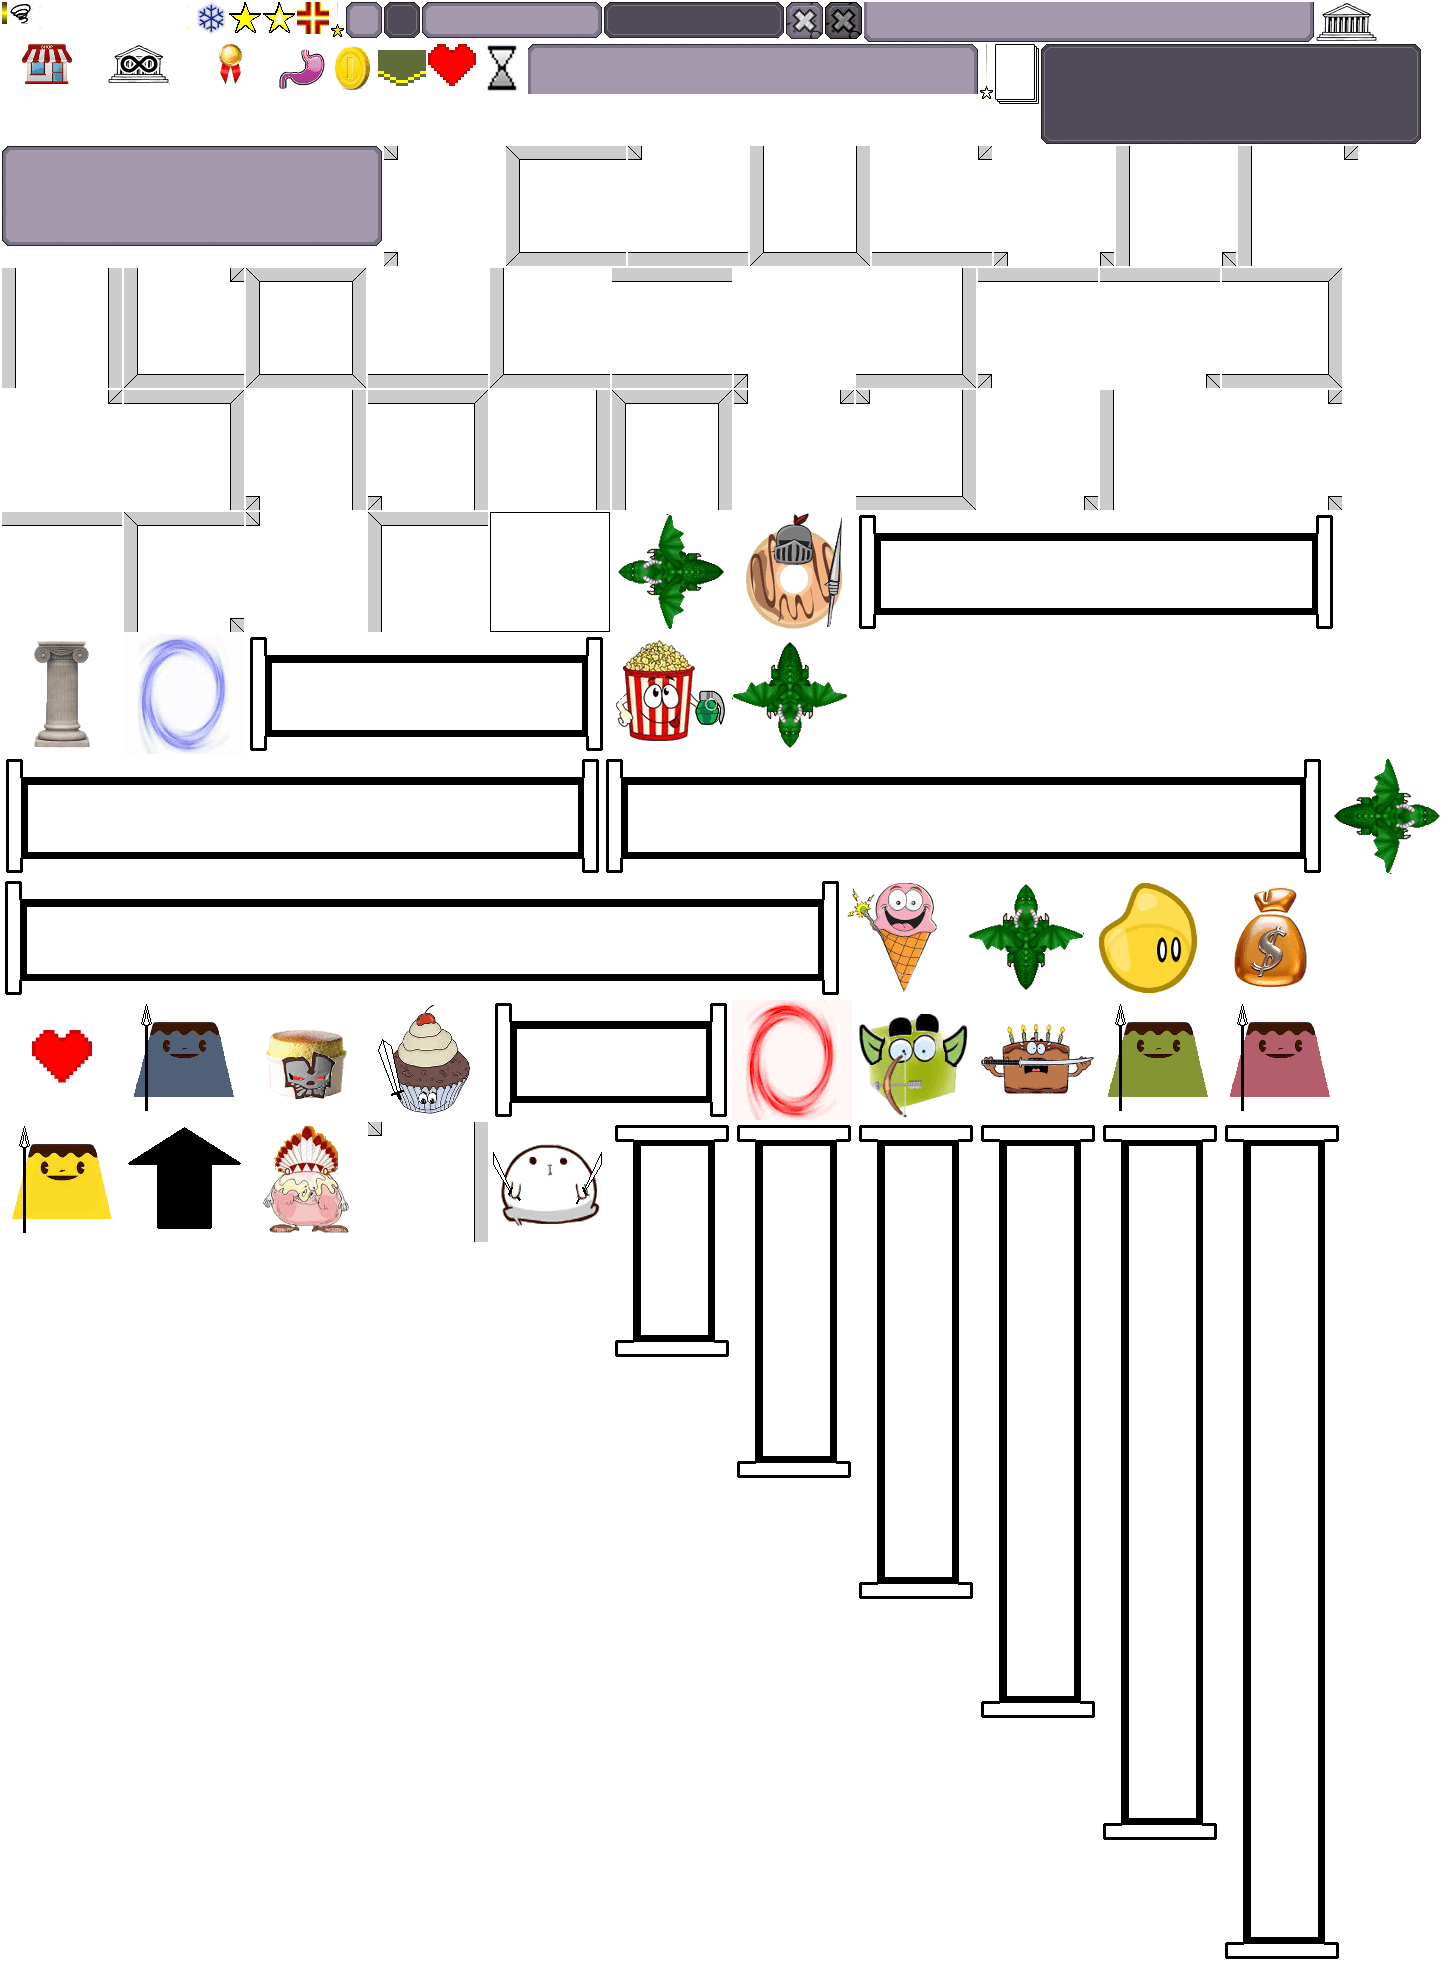
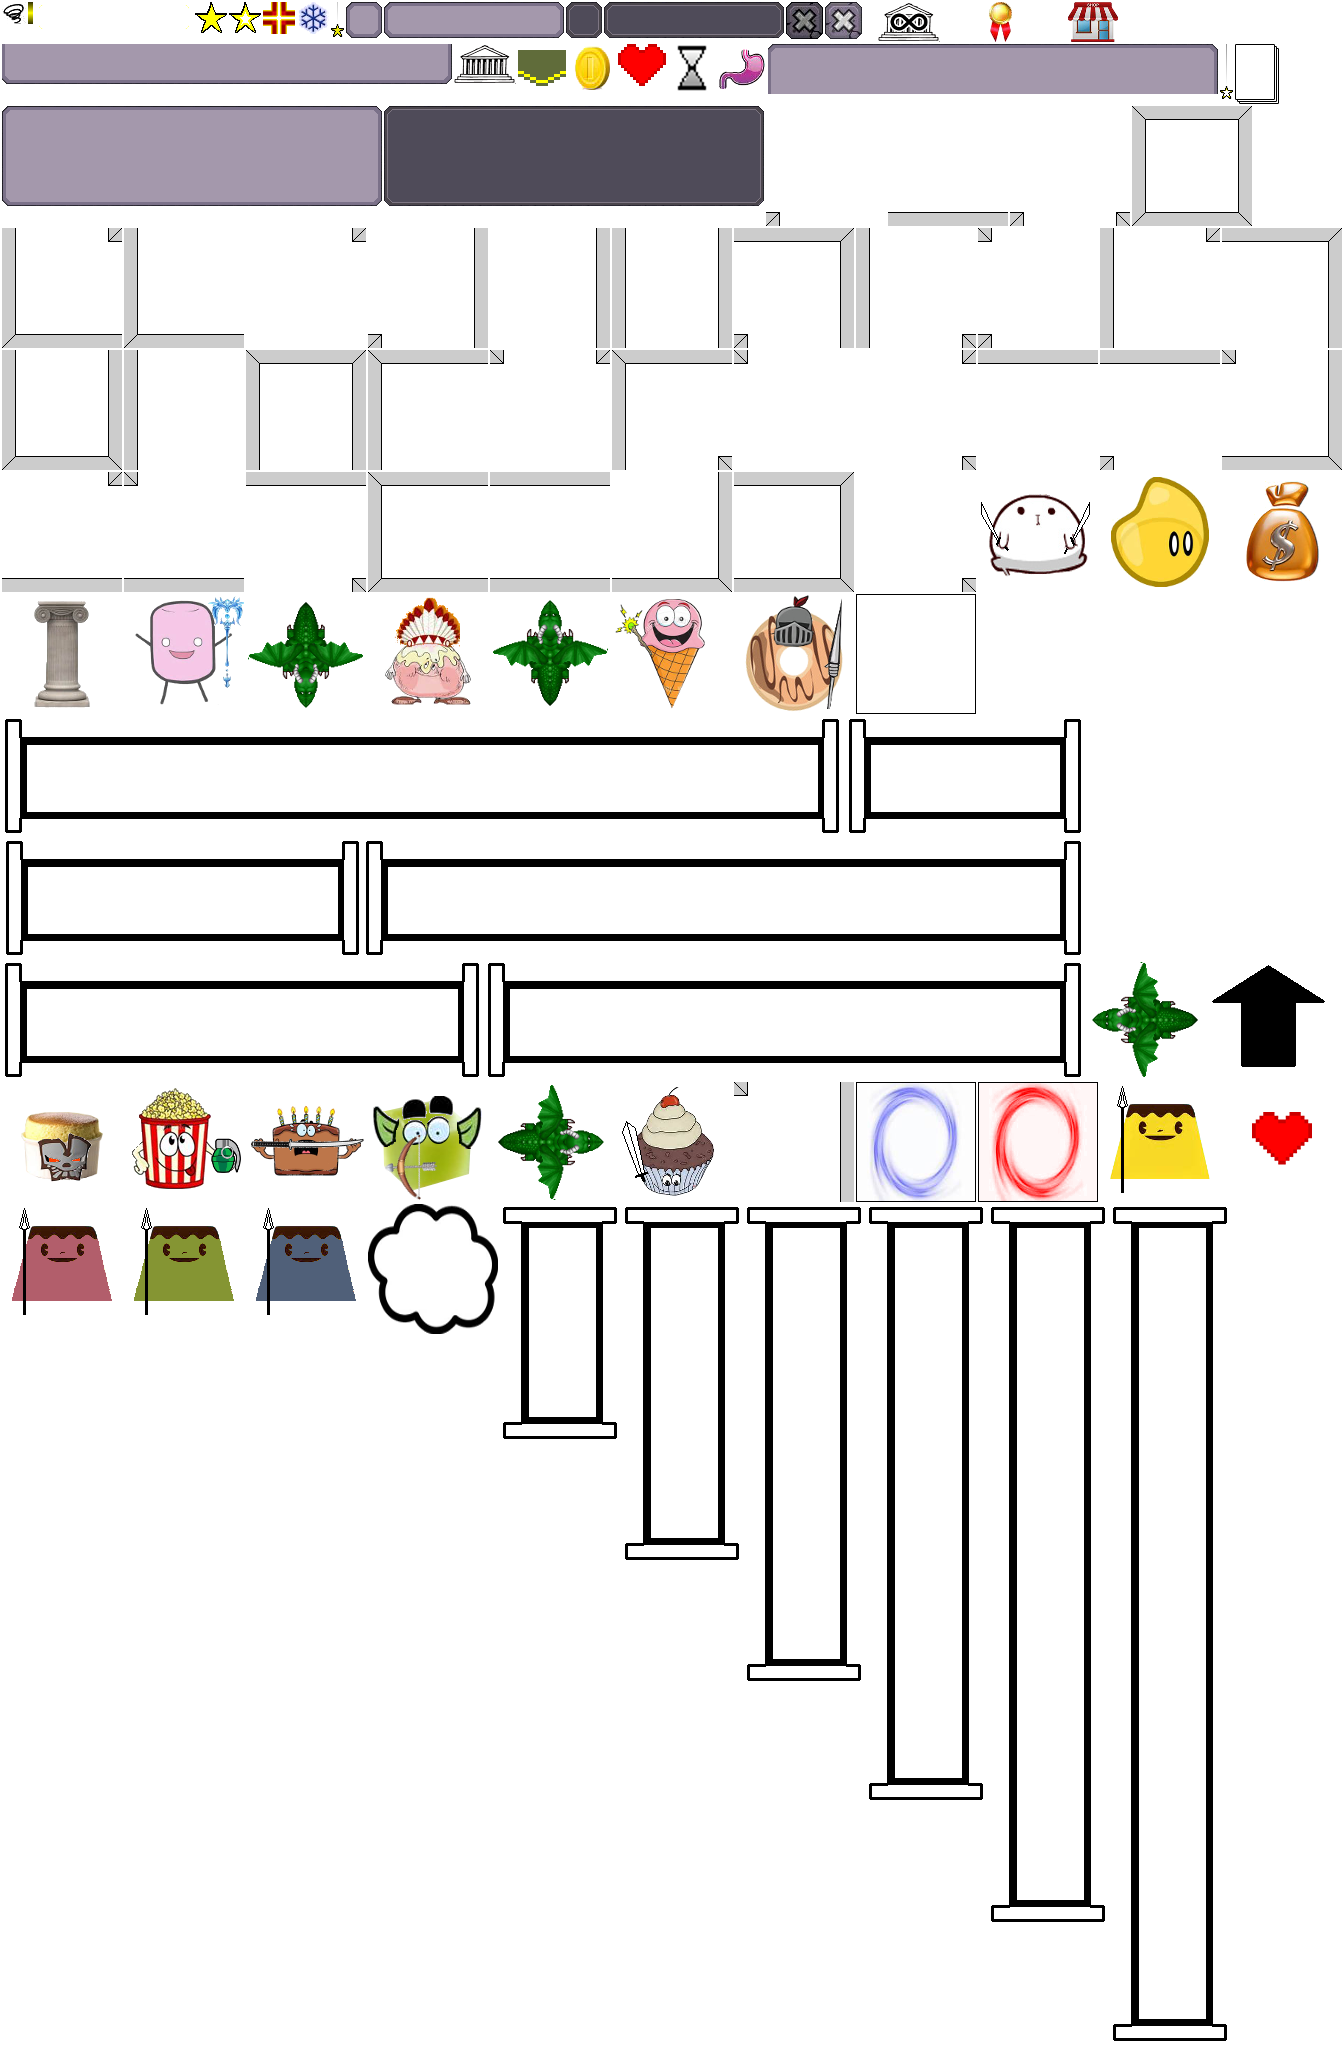
add mushmellow framework

Changed region(s): [[0.0, 0.0, 1.0, 1.0]]

diff --git a/src/model/tile.js b/src/model/tile.js
@@ -20,7 +20,9 @@ var RoomTileModel = Backbone.Model.extend({
     }
 })
 
-var RoomWallTileModel = RoomTileModel.extend({
+var TILE_MODEL_MAP = {}
+
+TILE_MODEL_MAP.wall = RoomTileModel.extend({
     defaults:function(){
         return _.extend(RoomTileModel.prototype.defaults.apply(this),{
             type: "wall",
@@ -31,7 +33,7 @@ var RoomWallTileModel = RoomTileModel.extend({
     }
 })
 
-var FloorTileModel = RoomTileModel.extend({
+TILE_MODEL_MAP.floor = RoomTileModel.extend({
     defaults:function(){
         return _.extend(RoomTileModel.prototype.defaults.apply(this),{
             type: "floor",
@@ -40,7 +42,7 @@ var FloorTileModel = RoomTileModel.extend({
     }
 })
 
-var PillarTileModel = RoomTileModel.extend({
+TILE_MODEL_MAP.pillar = RoomTileModel.extend({
     defaults:function(){
         return _.extend(RoomTileModel.prototype.defaults.apply(this),{
             type: "pillar",
@@ -48,6 +50,18 @@ var PillarTileModel = RoomTileModel.extend({
             isPassable: false,
             canGenEnemy: false
         });
+    }
+})
+
+TILE_MODEL_MAP.portal = RoomTileModel.extend({
+    defaults:function(){
+        return _.extend(RoomTileModel.prototype.defaults.apply(this),{
+            type: "portal",
+            subtype: "a"
+        });
+    },
+    onTurnStart:function(){
+
     }
 })
 
@@ -61,8 +75,3 @@ var DoorTileModel = RoomTileModel.extend({
     }
 })
 
-var TILE_MODEL_MAP = {
-    "wall": RoomWallTileModel,
-    "floor":FloorTileModel,
-    "pillar":PillarTileModel
-}

diff --git a/src/model/enemy.js b/src/model/enemy.js
@@ -338,6 +338,26 @@ MOVABLE_MODEL_MAP.icecream = EnemyModel.extend({
     }
 })
 
+MOVABLE_MODEL_MAP.mushmellow = EnemyModel.extend({
+    defaults:function(){
+        return _.extend( EnemyModel.prototype.defaults.call(this),{
+            type: "mushmellow"
+        } )
+    },
+    afterBeMerged:function(movable){
+        EnemyModel.prototype.afterBeMerged.call(this,movable);
+        if ( movable instanceof MOVABLE_MODEL_MAP.mushmellow ) {
+            //TODO
+        }
+    },
+    expOfLevel:function(l){
+        return Math.round(l*EXP_INFLATION_RATE*2.5)
+    },
+    attackOfLevel:function(l){
+        return l;
+    }
+})
+
 MOVABLE_MODEL_MAP.popcorn = EnemyModel.extend({
     defaults:function(){
         return _.extend( EnemyModel.prototype.defaults.call(this),{

diff --git a/src/model/room.js b/src/model/room.js
@@ -474,7 +474,12 @@ var RoomModel = Backbone.Model.extend({
                 movable.onTurnStart();
             }
         },this)
-        //TODO for tiles special ability
+
+        this.foreachTile(function(tileModel){
+            if ( tileModel.onTurnStart ) {
+                tileModel.onTurnStart.call(tileModel);
+            }
+        },this);
 
         if ( this.passCheckCondition() ) {
             this.nextPhase();
